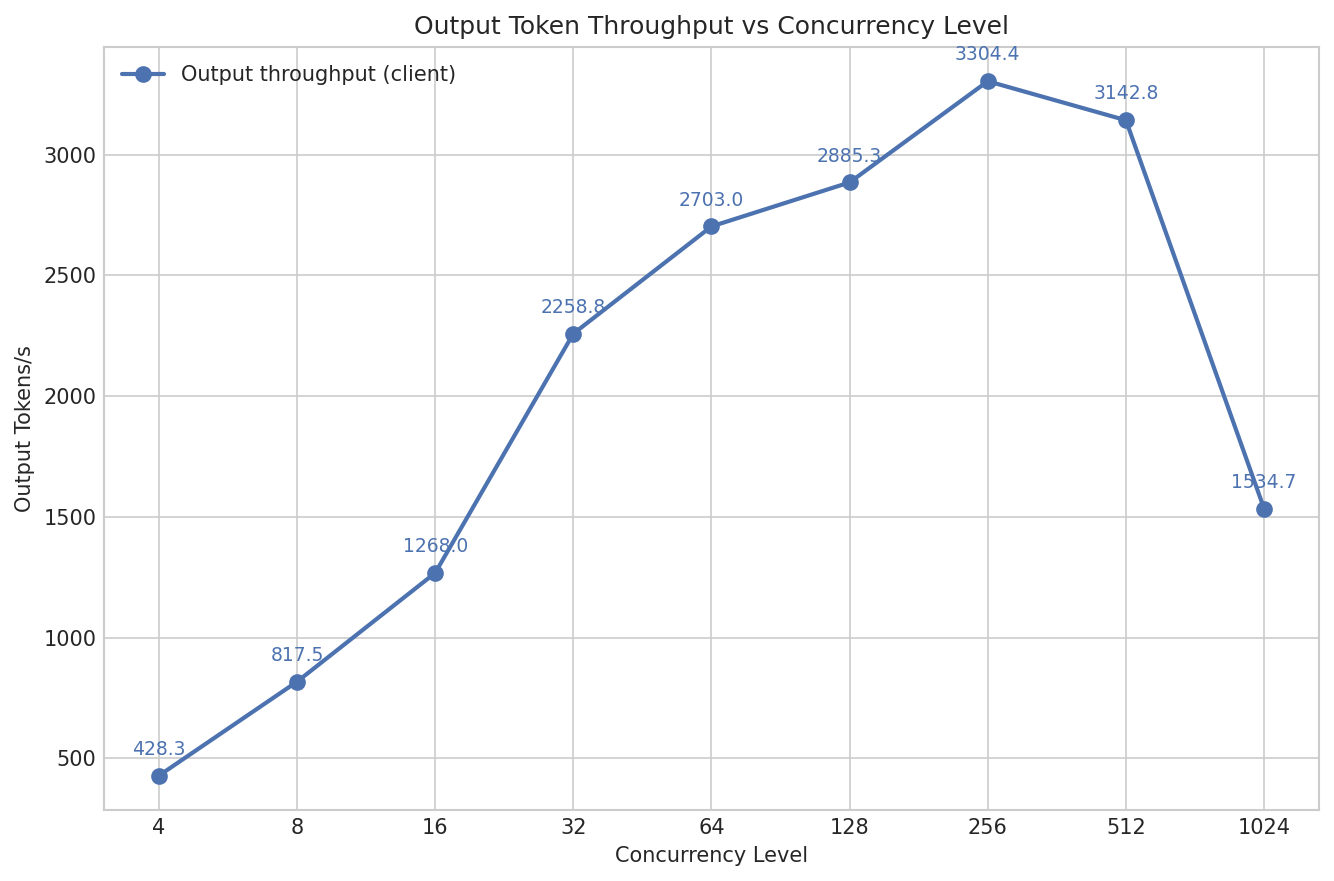
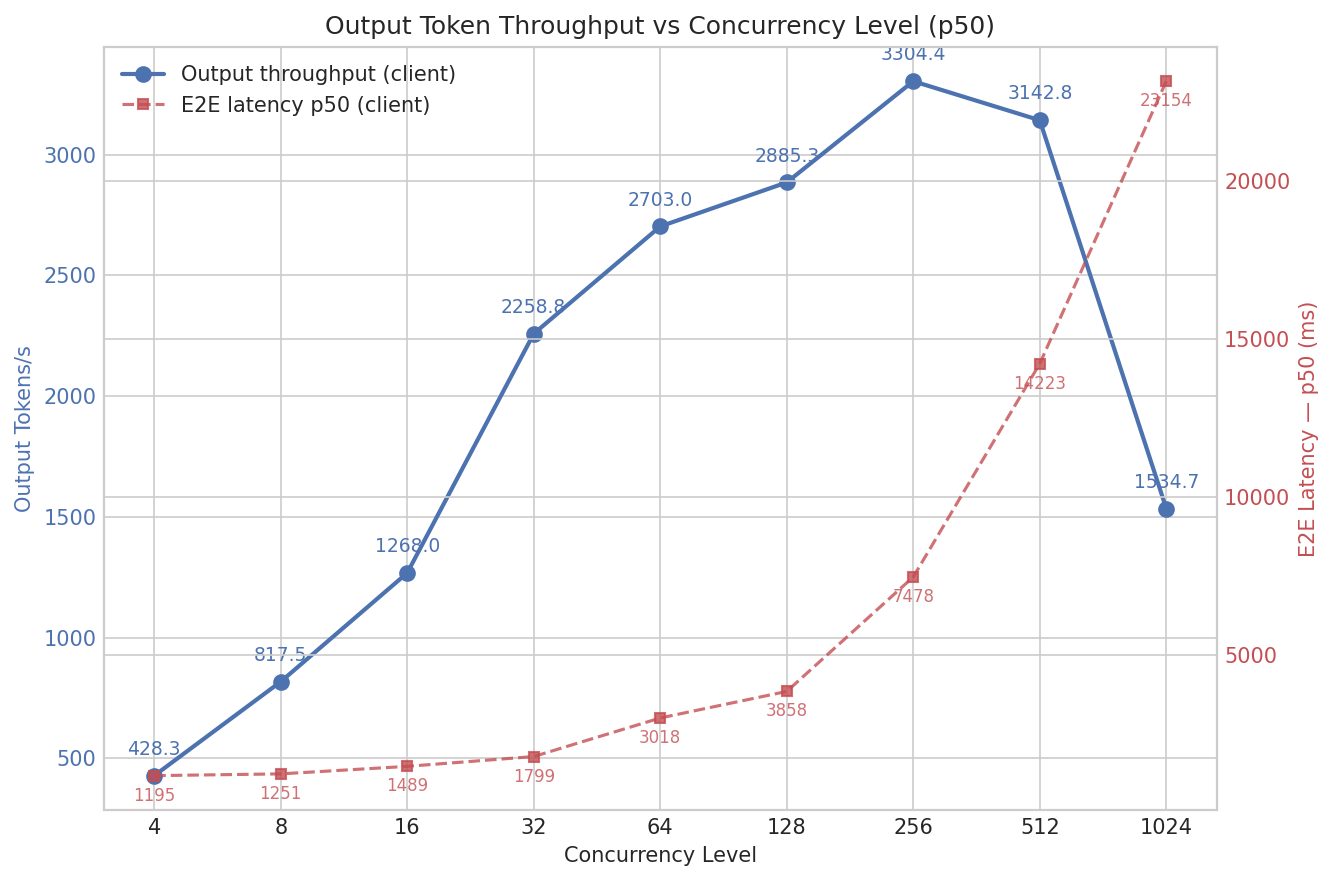
add: concurrency sweep experiments

diff --git a/benchmarks/plotting/plot_throughput_latency_pareto.py b/benchmarks/plotting/plot_throughput_latency_pareto.py
@@ -1,0 +1,181 @@
+#!/usr/bin/env python3
+"""Plot throughput vs latency Pareto frontier across concurrency levels.
+
+Reads the output of experiment_orchestrator.py for the throughput_latency_pareto
+experiment and produces a scatter plot with the Pareto frontier highlighted.
+Each point represents a concurrency level; Pareto-optimal points are connected
+and labeled.
+
+Usage:
+    python -m benchmarks.plotting.plot_throughput_latency_pareto
+    python -m benchmarks.plotting.plot_throughput_latency_pareto --stat p90
+    python -m benchmarks.plotting.plot_throughput_latency_pareto --input results/pareto.json --source server
+"""
+
+from __future__ import annotations
+
+import argparse
+import json
+import os
+from pathlib import Path
+
+import matplotlib
+matplotlib.use("Agg")
+import matplotlib.pyplot as plt
+import numpy as np
+
+# ---------------------------------------------------------------------------
+# Style
+# ---------------------------------------------------------------------------
+_STYLE = "seaborn-v0_8-whitegrid"
+try:
+    plt.style.use(_STYLE)
+except OSError:
+    try:
+        plt.style.use("seaborn-whitegrid")
+    except OSError:
+        pass
+
+COLORS = {
+    "scatter": "#A8B6CC",
+    "pareto_line": "#C44E52",
+    "pareto_marker": "#C44E52",
+    "label": "#2D3436",
+}
+
+# ---------------------------------------------------------------------------
+# Pareto frontier
+# ---------------------------------------------------------------------------
+
+def pareto_frontier(latencies: np.ndarray, throughputs: np.ndarray) -> np.ndarray:
+    """Return indices of Pareto-optimal points.
+
+    A point is Pareto-optimal if no other point has both lower latency AND
+    higher throughput.  We sort by latency ascending and sweep: a point is
+    on the frontier if its throughput exceeds the running maximum.
+    """
+    order = np.argsort(latencies)
+    pareto_indices = []
+    max_throughput = -np.inf
+    for idx in order:
+        if throughputs[idx] > max_throughput:
+            pareto_indices.append(idx)
+            max_throughput = throughputs[idx]
+    return np.array(pareto_indices)
+
+# ---------------------------------------------------------------------------
+# Plot
+# ---------------------------------------------------------------------------
+
+def plot_throughput_latency_pareto(
+    data: dict, out_dir: str, stat: str = "mean", source: str = "client",
+    skip_x: set[int] | None = None,
+) -> str:
+    conditions = data["conditions"]
+
+    concurrencies = []
+    latencies = []
+    throughputs = []
+
+    for cond_name, cond in conditions.items():
+        concurrency = cond["dispatch"]["concurrency"]
+        if skip_x and concurrency in skip_x:
+            continue
+        latency_s = cond["stats"]["e2e"][stat]
+        latency_ms = latency_s * 1000
+
+        if source == "server":
+            tput = (cond.get("server_side_delta", {})
+                       .get("throughput", {})
+                       .get("output_tokens_per_second", 0.0))
+        else:
+            tput = cond["client_side_throughput"]["output_tokens_per_second"]
+
+        concurrencies.append(concurrency)
+        latencies.append(latency_ms)
+        throughputs.append(tput)
+
+    concurrencies = np.array(concurrencies)
+    latencies = np.array(latencies)
+    throughputs = np.array(throughputs)
+
+    # Pareto frontier
+    pareto_idx = pareto_frontier(latencies, throughputs)
+    # Sort pareto points by latency for line drawing
+    pareto_order = np.argsort(latencies[pareto_idx])
+    pareto_idx = pareto_idx[pareto_order]
+
+    fig, ax = plt.subplots(figsize=(9, 6))
+
+    # All points (non-pareto) as faded scatter
+    non_pareto_mask = np.ones(len(latencies), dtype=bool)
+    non_pareto_mask[pareto_idx] = False
+    ax.scatter(latencies[non_pareto_mask], throughputs[non_pareto_mask],
+               color=COLORS["scatter"], s=80, zorder=2, edgecolors="white",
+               linewidths=0.5, label="Dominated")
+
+    # Pareto frontier line + markers
+    ax.plot(latencies[pareto_idx], throughputs[pareto_idx], "o-",
+            color=COLORS["pareto_line"], lw=2.5, markersize=9, zorder=4,
+            markeredgecolor="white", markeredgewidth=1, label="Pareto frontier")
+
+    # Label every point with its concurrency level
+    for i in range(len(concurrencies)):
+        is_pareto = i in pareto_idx
+        weight = "bold" if is_pareto else "normal"
+        color = COLORS["pareto_line"] if is_pareto else COLORS["label"]
+        ax.annotate(
+            f"N={concurrencies[i]}",
+            (latencies[i], throughputs[i]),
+            textcoords="offset points",
+            xytext=(8, 8),
+            fontsize=9,
+            fontweight=weight,
+            color=color,
+            zorder=5,
+        )
+
+    ax.set_xlabel(f"End-to-End Latency — {stat} (ms)")
+    ax.set_ylabel("Output Throughput (tok/s)")
+    ax.set_title(f"Throughput vs Latency Pareto Frontier ({source})")
+    ax.legend(loc="best")
+
+    plt.tight_layout()
+    fpath = os.path.join(out_dir, f"throughput_latency_pareto_{source}.png")
+    fig.savefig(fpath, dpi=150, bbox_inches="tight")
+    plt.close(fig)
+    return fpath
+
+
+def main():
+    parser = argparse.ArgumentParser(
+        description="Plot throughput vs latency Pareto frontier"
+    )
+    parser.add_argument("--input", default=None, help="Path to experiment results JSON")
+    parser.add_argument("--output-dir", default=None, help="Directory for output PNGs")
+    parser.add_argument("--dispatch-mode", default="concurrent",
+                        help="Dispatch mode subfolder (default: %(default)s)")
+    parser.add_argument("--stat", default="mean", choices=("mean", "p50", "p90", "p99"),
+                        help="E2E latency statistic to use (default: mean)")
+    parser.add_argument("--source", default="client", choices=("client", "server"),
+                        help="Throughput source: client-side or server-side (default: client)")
+    parser.add_argument("--skip-x", default=None,
+                        help="Comma-separated concurrency values to exclude (e.g. 2048,4096)")
+    args = parser.parse_args()
+
+    results_dir = (Path(__file__).resolve().parent.parent
+                   / "results" / args.dispatch_mode / "throughput_latency_pareto")
+    input_path = args.input or str(results_dir / "throughput_latency_pareto.json")
+    output_dir = args.output_dir or str(results_dir)
+
+    with open(input_path) as f:
+        data = json.load(f)
+
+    os.makedirs(output_dir, exist_ok=True)
+    skip_x = set(int(v) for v in args.skip_x.split(",")) if args.skip_x else None
+    fpath = plot_throughput_latency_pareto(data, output_dir, stat=args.stat, source=args.source, skip_x=skip_x)
+    print(f"Saved: {fpath}")
+
+
+if __name__ == "__main__":
+    main()

diff --git a/benchmarks/plotting/plot_throughput_vs_concurrency.py b/benchmarks/plotting/plot_throughput_vs_concurrency.py
@@ -44,54 +44,78 @@ COLORS = {
 # Plot
 # ---------------------------------------------------------------------------
 
-def plot_throughput_vs_concurrency(data: dict, out_dir: str, source: str = "client", skip_x: set[int] | None = None) -> str:
+VALID_STATS = ("mean", "p50", "p90", "p99")
+
+
+def plot_throughput_vs_concurrency(
+    data: dict, out_dir: str, source: str = "client",
+    stat: str = "mean", skip_x: set[int] | None = None,
+) -> str:
     conditions = data["conditions"]
 
     concurrency_levels = []
     throughputs = []
+    latencies = []
 
     for cond_name, cond in conditions.items():
         concurrency = cond["dispatch"]["concurrency"]
+        if skip_x and concurrency in skip_x:
+            continue
         if source == "server":
             tput = (cond.get("server_side_delta", {})
                        .get("throughput", {})
                        .get("output_tokens_per_second", 0.0))
         else:
             tput = cond["client_side_throughput"]["output_tokens_per_second"]
+        latency_ms = cond["stats"]["e2e"][stat] * 1000
         concurrency_levels.append(concurrency)
         throughputs.append(tput)
-
-    # Filter out skipped x values
-    if skip_x:
-        filtered = [(c, t) for c, t in zip(concurrency_levels, throughputs) if c not in skip_x]
-        concurrency_levels, throughputs = zip(*filtered) if filtered else ([], [])
-        concurrency_levels, throughputs = list(concurrency_levels), list(throughputs)
+        latencies.append(latency_ms)
 
     # Sort by concurrency
     order = np.argsort(concurrency_levels)
     concurrency_levels = np.array(concurrency_levels)[order]
     throughputs = np.array(throughputs)[order]
+    latencies = np.array(latencies)[order]
 
     color_key = f"{source}_line"
     color = COLORS.get(color_key, COLORS["client_line"])
 
-    fig, ax = plt.subplots(figsize=(9, 6))
+    fig, ax1 = plt.subplots(figsize=(9, 6))
 
-    ax.plot(concurrency_levels, throughputs, "o-", color=color, lw=2,
-            markersize=7, zorder=3, label=f"Output throughput ({source})")
+    ax1.plot(concurrency_levels, throughputs, "o-", color=color, lw=2,
+             markersize=7, zorder=3, label=f"Output throughput ({source})")
 
-    # Annotate each point
     for x, y in zip(concurrency_levels, throughputs):
-        ax.annotate(f"{y:.1f}", (x, y), textcoords="offset points",
-                    xytext=(0, 10), ha="center", fontsize=9, color=color)
+        ax1.annotate(f"{y:.1f}", (x, y), textcoords="offset points",
+                     xytext=(0, 10), ha="center", fontsize=9, color=color)
 
-    ax.set_xscale("log", base=2)
-    ax.set_xlabel("Concurrency Level")
-    ax.set_ylabel("Output Tokens/s")
-    ax.set_title("Output Token Throughput vs Concurrency Level")
-    ax.set_xticks(concurrency_levels)
-    ax.set_xticklabels([str(int(c)) for c in concurrency_levels])
-    ax.legend()
+    ax1.set_xscale("log", base=2)
+    ax1.set_xlabel("Concurrency Level")
+    ax1.set_ylabel("Output Tokens/s", color=color)
+    ax1.tick_params(axis="y", labelcolor=color)
+    ax1.set_xticks(concurrency_levels)
+    ax1.set_xticklabels([str(int(c)) for c in concurrency_levels])
+
+    # Secondary y-axis: E2E latency
+    lat_color = COLORS.get("server_line" if source == "client" else "client_line", "#C44E52")
+    ax2 = ax1.twinx()
+    ax2.plot(concurrency_levels, latencies, "s--", color=lat_color, lw=1.5,
+             markersize=5, zorder=3, alpha=0.8, label=f"E2E latency {stat} ({source})")
+
+    for x, y in zip(concurrency_levels, latencies):
+        ax2.annotate(f"{y:.0f}", (x, y), textcoords="offset points",
+                     xytext=(0, -12), ha="center", fontsize=8, color=lat_color, alpha=0.8)
+
+    ax2.set_ylabel(f"E2E Latency — {stat} (ms)", color=lat_color)
+    ax2.tick_params(axis="y", labelcolor=lat_color)
+
+    # Combined legend
+    lines1, labels1 = ax1.get_legend_handles_labels()
+    lines2, labels2 = ax2.get_legend_handles_labels()
+    ax1.legend(lines1 + lines2, labels1 + labels2, loc="upper left")
+
+    ax1.set_title(f"Output Token Throughput vs Concurrency Level ({stat})")
 
     plt.tight_layout()
     fpath = os.path.join(out_dir, f"throughput_vs_concurrency_{source}.png")
@@ -107,8 +131,10 @@ def main():
     parser.add_argument("--dispatch-mode", default="concurrent", help="Dispatch mode subfolder (default: %(default)s)")
     parser.add_argument("--source", default="client", choices=("client", "server"),
                         help="Throughput source: client-side or server-side (default: client)")
+    parser.add_argument("--stat", default="mean", choices=VALID_STATS,
+                        help="E2E latency statistic for secondary axis (default: mean)")
     parser.add_argument("--skip-x", default=None,
-                        help="Comma-separated concurrency values to exclude (e.g. 2048,3096)")
+                        help="Comma-separated concurrency values to exclude (e.g. 2048,4096)")
     args = parser.parse_args()
 
     results_dir = Path(__file__).resolve().parent.parent / "results" / args.dispatch_mode / "throughput_vs_concurrency"
@@ -120,7 +146,7 @@ def main():
 
     os.makedirs(output_dir, exist_ok=True)
     skip_x = set(int(v) for v in args.skip_x.split(",")) if args.skip_x else None
-    fpath = plot_throughput_vs_concurrency(data, output_dir, source=args.source, skip_x=skip_x)
+    fpath = plot_throughput_vs_concurrency(data, output_dir, source=args.source, stat=args.stat, skip_x=skip_x)
     print(f"Saved: {fpath}")
 
 

diff --git a/benchmarks/plotting/plot_ttft_vs_concurrency.py b/benchmarks/plotting/plot_ttft_vs_concurrency.py
@@ -1,7 +1,7 @@
 #!/usr/bin/env python3
 """Plot TTFT percentiles vs concurrency level.
 
-Reads the output of run_experiment.py for the ttft_vs_concurrency
+Reads the output of experiment_orchestrator.py for the ttft_vs_concurrency
 experiment and produces a multi-line plot showing how mean, p50, p90,
 and p99 TTFT scale with the number of concurrent requests.
 
@@ -54,17 +54,28 @@ STATS = [
 # Plot
 # ---------------------------------------------------------------------------
 
-def plot_ttft_vs_concurrency(data: dict, out_dir: str, scatter: bool = True) -> str:
+VALID_STATS = ("mean", "p50", "p90", "p99")
+
+
+def plot_ttft_vs_concurrency(
+    data: dict, out_dir: str, scatter: bool = True,
+    stat: str | None = None, skip_x: set[int] | None = None,
+) -> str:
     conditions = data["conditions"]
 
+    # If a single stat is requested, only plot that one
+    active_stats = [(s, l, m) for s, l, m in STATS if s == stat] if stat else STATS
+
     concurrency_levels = []
-    stat_values = {key: [] for key, _, _ in STATS}
+    stat_values = {key: [] for key, _, _ in active_stats}
     scatter_data: dict[int, list[float]] = {}
 
     for cond_name, cond in conditions.items():
         conc = cond["dispatch"]["concurrency"]
+        if skip_x and conc in skip_x:
+            continue
         concurrency_levels.append(conc)
-        for key, _, _ in STATS:
+        for key, _, _ in active_stats:
             stat_values[key].append(cond["stats"]["ttft"][key])
         # Collect per-request TTFT for scatter
         ok = [r for r in cond["per_request"]
@@ -89,21 +100,24 @@ def plot_ttft_vs_concurrency(data: dict, out_dir: str, scatter: bool = True) -> 
                        color=COLORS["scatter"], edgecolors="none", zorder=1)
 
     # Stat lines
-    for key, label, marker_style in STATS:
+    for key, label, marker_style in active_stats:
         ax.plot(concurrency_levels, stat_values[key], marker_style,
                 color=COLORS[key], lw=2, markersize=7, zorder=3,
                 label=f"TTFT {label}")
 
-    # Annotate p99 only
-    for x, y in zip(concurrency_levels, stat_values["p99"]):
+    # Annotate the top stat line
+    annotate_key = active_stats[-1][0]
+    for x, y in zip(concurrency_levels, stat_values[annotate_key]):
         ax.annotate(f"{y:.1f}", (x, y), textcoords="offset points",
                     xytext=(0, 10), ha="center", fontsize=9,
-                    color=COLORS["p99"])
+                    color=COLORS[annotate_key])
 
+    ax.set_xscale("log", base=2)
     ax.set_xlabel("Concurrency Level")
     ax.set_ylabel("TTFT (ms)")
     ax.set_title("TTFT vs Concurrency Level")
     ax.set_xticks(concurrency_levels)
+    ax.set_xticklabels([str(int(c)) for c in concurrency_levels])
     ax.legend()
 
     plt.tight_layout()
@@ -124,6 +138,10 @@ def main():
                         help="Dispatch mode subfolder (default: %(default)s)")
     parser.add_argument("--no-scatter", action="store_true",
                         help="Hide individual request TTFT scatter points")
+    parser.add_argument("--stat", default=None, choices=VALID_STATS,
+                        help="Plot only this statistic (default: all four)")
+    parser.add_argument("--skip-x", default=None,
+                        help="Comma-separated concurrency values to exclude (e.g. 2048,4096)")
     args = parser.parse_args()
 
     results_dir = (Path(__file__).resolve().parent.parent
@@ -135,8 +153,10 @@ def main():
         data = json.load(f)
 
     os.makedirs(output_dir, exist_ok=True)
+    skip_x = set(int(v) for v in args.skip_x.split(",")) if args.skip_x else None
     fpath = plot_ttft_vs_concurrency(data, output_dir,
-                                     scatter=not args.no_scatter)
+                                     scatter=not args.no_scatter,
+                                     stat=args.stat, skip_x=skip_x)
     print(f"Saved: {fpath}")
 
 
